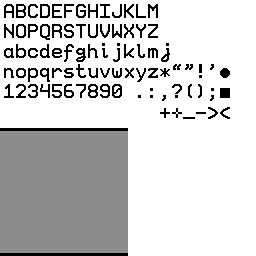
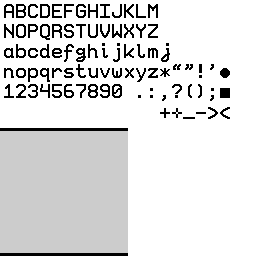
Better colors

Changed region(s): [[0.0, 0.5, 0.5, 1.0]]

diff --git a/src/stage.rs b/src/stage.rs
@@ -252,8 +252,8 @@ impl Stage {
         let s_display = self.state.lock().unwrap();
         self.overlay = text::Overlay::new_from(vec![
             //&format!("FPS: {}.", self.time_state.fps + 1),
-            &format!("-Space- to pause or play."),
-            &format!("-S- to skip, -Esc- to exit."),
+            &format!("<Space> to pause or continue."),
+            &format!("<S> to skip, <Esc> to exit."),
             &s_display.message,
         ]);
         self.gui = text::GUI::new_from(vec![
@@ -287,9 +287,9 @@ impl EventHandler for Stage {
             let mut s_main = self.state.lock().unwrap();
             if s_main.play {
                 s_main.skip = true;
-                s_main.message = format!("track skipped")
+                s_main.message = format!("*** track skipped")
             } else {
-                s_main.message = format!("unpause to skip")
+                s_main.message = format!("*** unpause to skip")
             }
             drop(s_main);
             self.input_state.apply_change = false;
@@ -298,7 +298,7 @@ impl EventHandler for Stage {
         if self.input_state.keys.space && self.input_state.apply_change {
             let mut s_main = self.state.lock().unwrap();
             s_main.play = !s_main.play;
-            s_main.message = format!("paused: {}", !s_main.play);
+            s_main.message = format!("*** paused: {}", !s_main.play);
             drop(s_main);
             self.input_state.apply_change = false;
         }
@@ -337,7 +337,7 @@ impl EventHandler for Stage {
         self.ctx.end_render_pass();
 
         self.ctx
-            .begin_pass(Some(self.render_pass), PassAction::clear_color(0.5294118, 0.8078431, 0.9215686, 1.0000000));
+            .begin_pass(Some(self.render_pass), PassAction::clear_color(settings::CLR4.0, settings::CLR4.1, settings::CLR4.2, 1.0));
 
         for j in 0..2 {
             self.ctx.buffer_update(self.bindings[j].vertex_buffers[0], BufferSource::slice(&self.mesh[j].vertices));

diff --git a/src/settings.rs b/src/settings.rs
@@ -11,6 +11,15 @@ pub const MAX_INDICES_OVERLAY: usize = MAX_QUADS_OVERLAY*6;
 pub const MAX_QUADS_GUI: usize = 1000;
 pub const MAX_VERTICES_GUI: usize = MAX_QUADS_GUI*4;
 pub const MAX_INDICES_GUI: usize = MAX_QUADS_GUI*6;
+pub const CLR1: (f32, f32, f32, f32) = (0.5294118, 0.8078431, 0.9215686, 1.0000000); // sky blue
+pub const CLR2: (f32, f32, f32, f32) = (0.14117647, 0.07843137, 0.13333333, 1.0); // dark purple
+pub const CLR3: (f32, f32, f32, f32) = (0.8, 0.0, 0.2, 1.0); // nice red
+pub const CLR4: (f32, f32, f32, f32) = (0.1568627, 0.1568627, 0.1568627, 1.0); // almost black
+pub const CLR5: (f32, f32, f32, f32) = (0.9960784, 0.7607843, 0.5568627, 1.0); // pale yellow
+pub const CLR6: (f32, f32, f32, f32) = (0.1843137, 0.2666667, 0.4627451, 1.0000000); // gray-blue
+pub const CLR7: (f32, f32, f32, f32) = (0.0, 0.2745098, 0.6666667, 1.0000000); // blue
+pub const CLR8: (f32, f32, f32, f32) = (0.85, 0.85, 0.85, 1.0000000); // almost white
+pub const CLR9: (f32, f32, f32, f32) = (0.5105882, 0.5600000, 0.6776471, 1.0000000); // pale blue
 
 pub struct Settings {
     pub screen_width: i32,

diff --git a/src/text.rs b/src/text.rs
@@ -1,4 +1,4 @@
-use crate::mesh::TextureUV;
+use crate::{mesh::TextureUV, settings};
 use std::char;
 
 pub const WIDTH: f32 = 12.0;
@@ -48,7 +48,7 @@ impl Overlay {
             line_width,
             line_x,
             line_y,
-            font_col: (0.14117647, 0.07843137, 0.13333333, 1.0),
+            font_col: settings::CLR8,
             x0,
             y0,
             scale,
@@ -101,8 +101,8 @@ impl GUI {
             line_x,
             line_y,
             line_active,
-            font_col: (0.14117647, 0.07843137, 0.13333333, 1.0),
-            act_col: (0.8, 0.0, 0.2, 1.0),
+            font_col: settings::CLR2,
+            act_col: settings::CLR6,
             act_no: 0,
             x0,
             y0,
